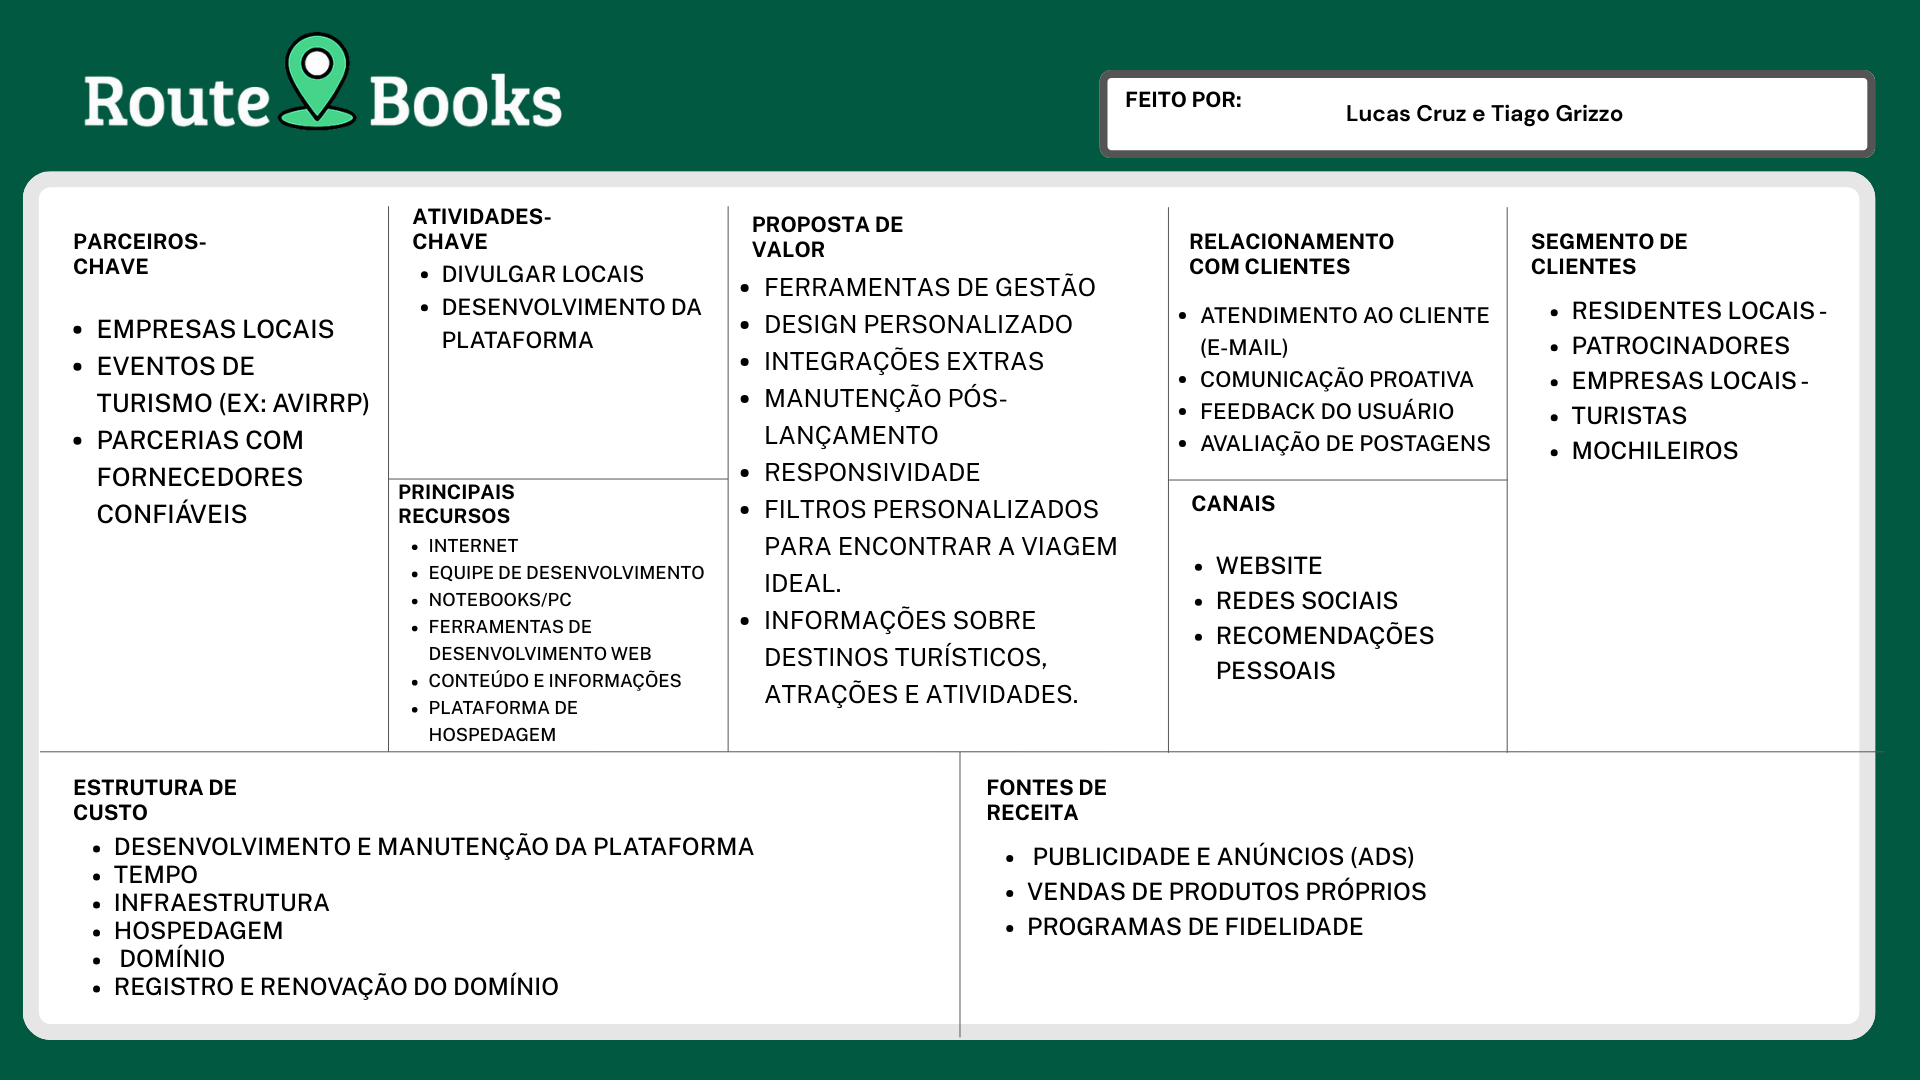
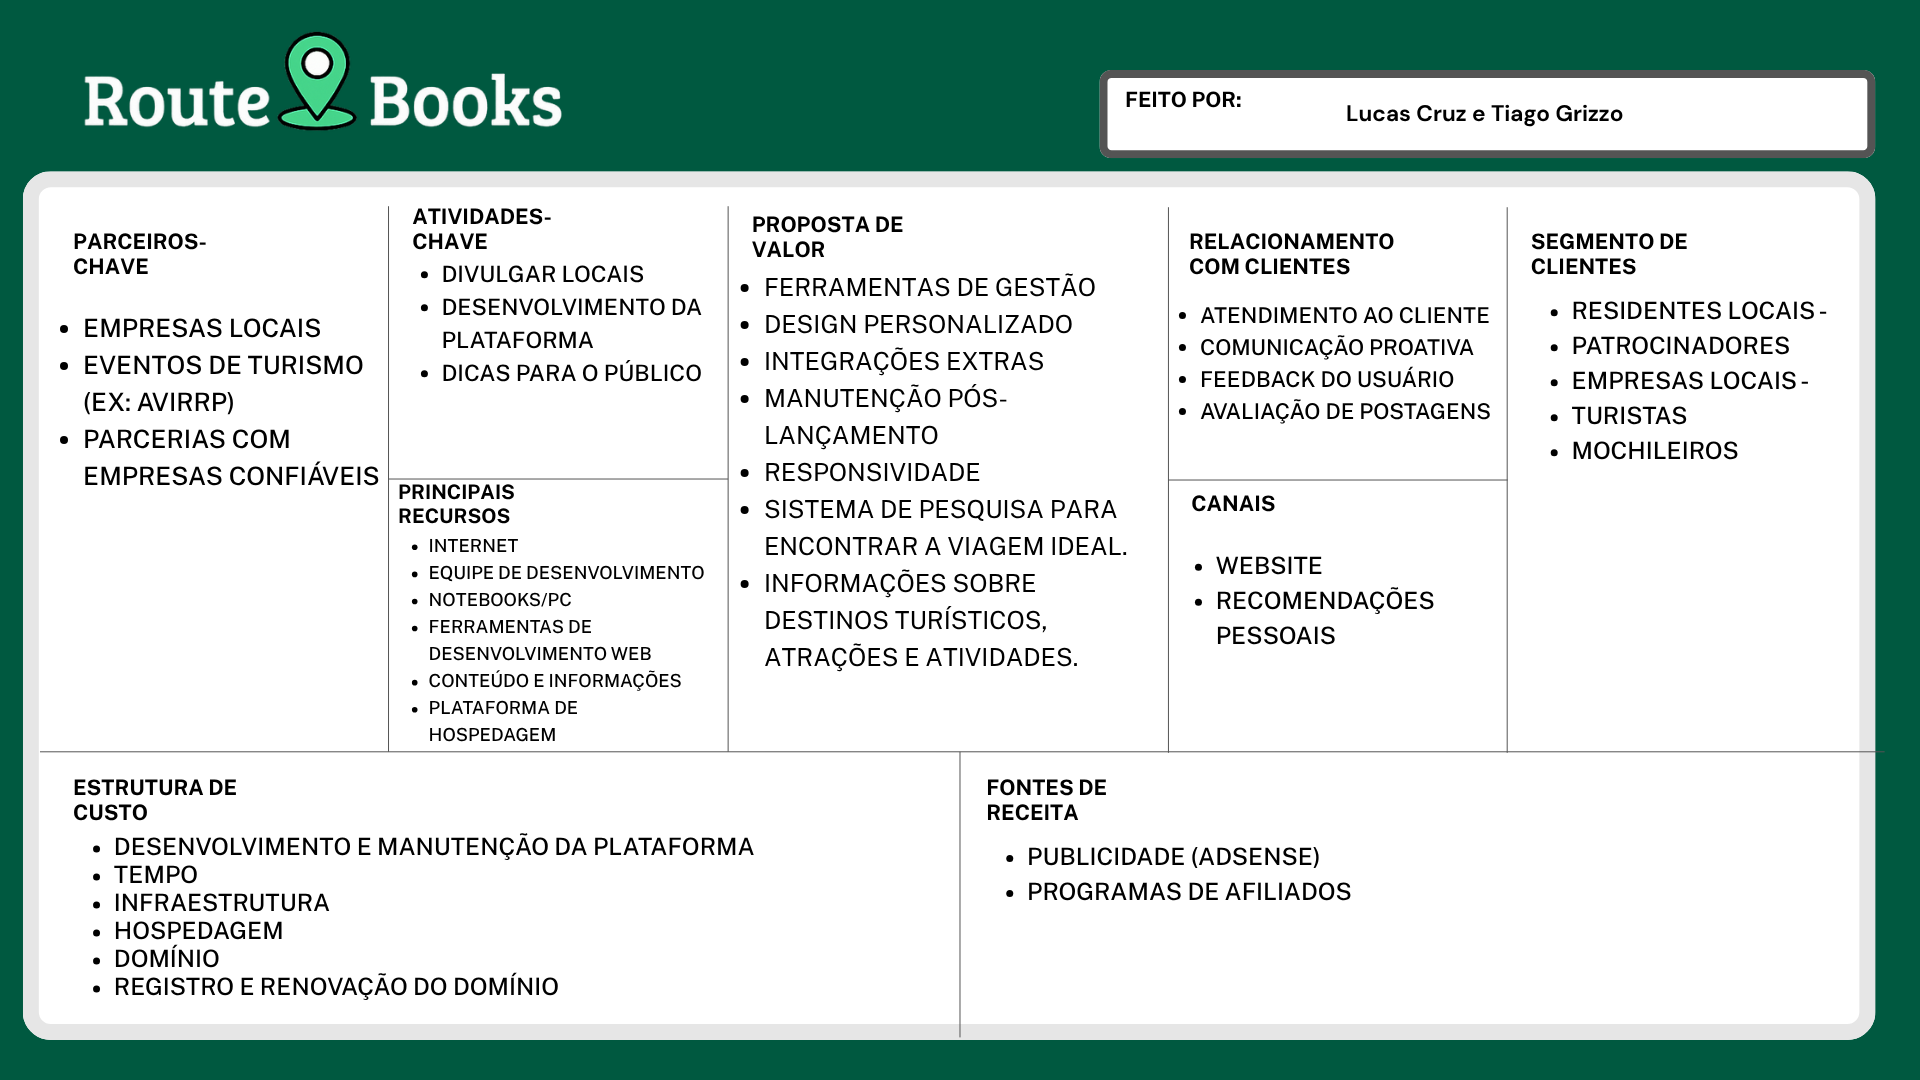
Modelo Canvas e modelo de navegação

diff --git a/README.md b/README.md
@@ -154,15 +154,15 @@ O sistema possui um modo escuro para facilitar a visualização da aplicação.
 ### Parcerias principais:
   - Empresas locais
   - Eventos de turismo (ex: AVIRRP) 
-  - Parcerias com fornecedores confiáveis 
+  - Parcerias com empresas confiáveis 
 ### Atividades principais:
-  - Suporte ao cliente 
+  - Dicas para o público
   - Divulgar locais (EX: PONTOS TURÍSTICOS, RESTAURANTES.)
   - Desenvolvimento da plataforma.
 ### Recursos principais:
   - Internet
   - Equipe de desenvolvimento
-  - Notebooks/pc
+  - Notebooks/PC
   - Ferramentas de desenvolvimento web
   - Conteúdo e informações
   - PlaTaforma de hospedagem
@@ -194,8 +194,7 @@ O sistema possui um modo escuro para facilitar a visualização da aplicação.
   - Registro e renovação do domínio
 ### Fontes de renda: 
   - Publicidade e Anúncios (Ads)
-  - Vendas de produtos próprios
-  - Programas de fidelidade 
+  - Programas de afiliados
 
 [Voltar para o início](#inicio)
 
@@ -245,8 +244,16 @@ Agora iremos implementar mais atividades, como Banco de dados ao projeto e talve
 
 
 ### Modelo de navegação:
-Ainda será feito!!!
+```mermaid
+    flowchart TD
+    homePage["Home Page"] --> sobre(["Sobre"]) & contato(["Contato"]) & criarPost(["Criar Post"]) & perfil(["Perfil"])   & posts(["Posts"]) & login(["Login"]) & verPosts(["Ver Posts"])
+    login --> cadastro(["Cadastro"]) & esqueceuSenha(["Esqueceu Senha"])
+    esqueceuSenha --> alterarSenha(["Alterar Senha"])
+    perfil --> editarperfil(["Editar perfil"])
+    
 
+    style sobre stroke-width:2px,stroke-dasharray: 0
+```
 
 [Voltar para o início](#inicio)
 
